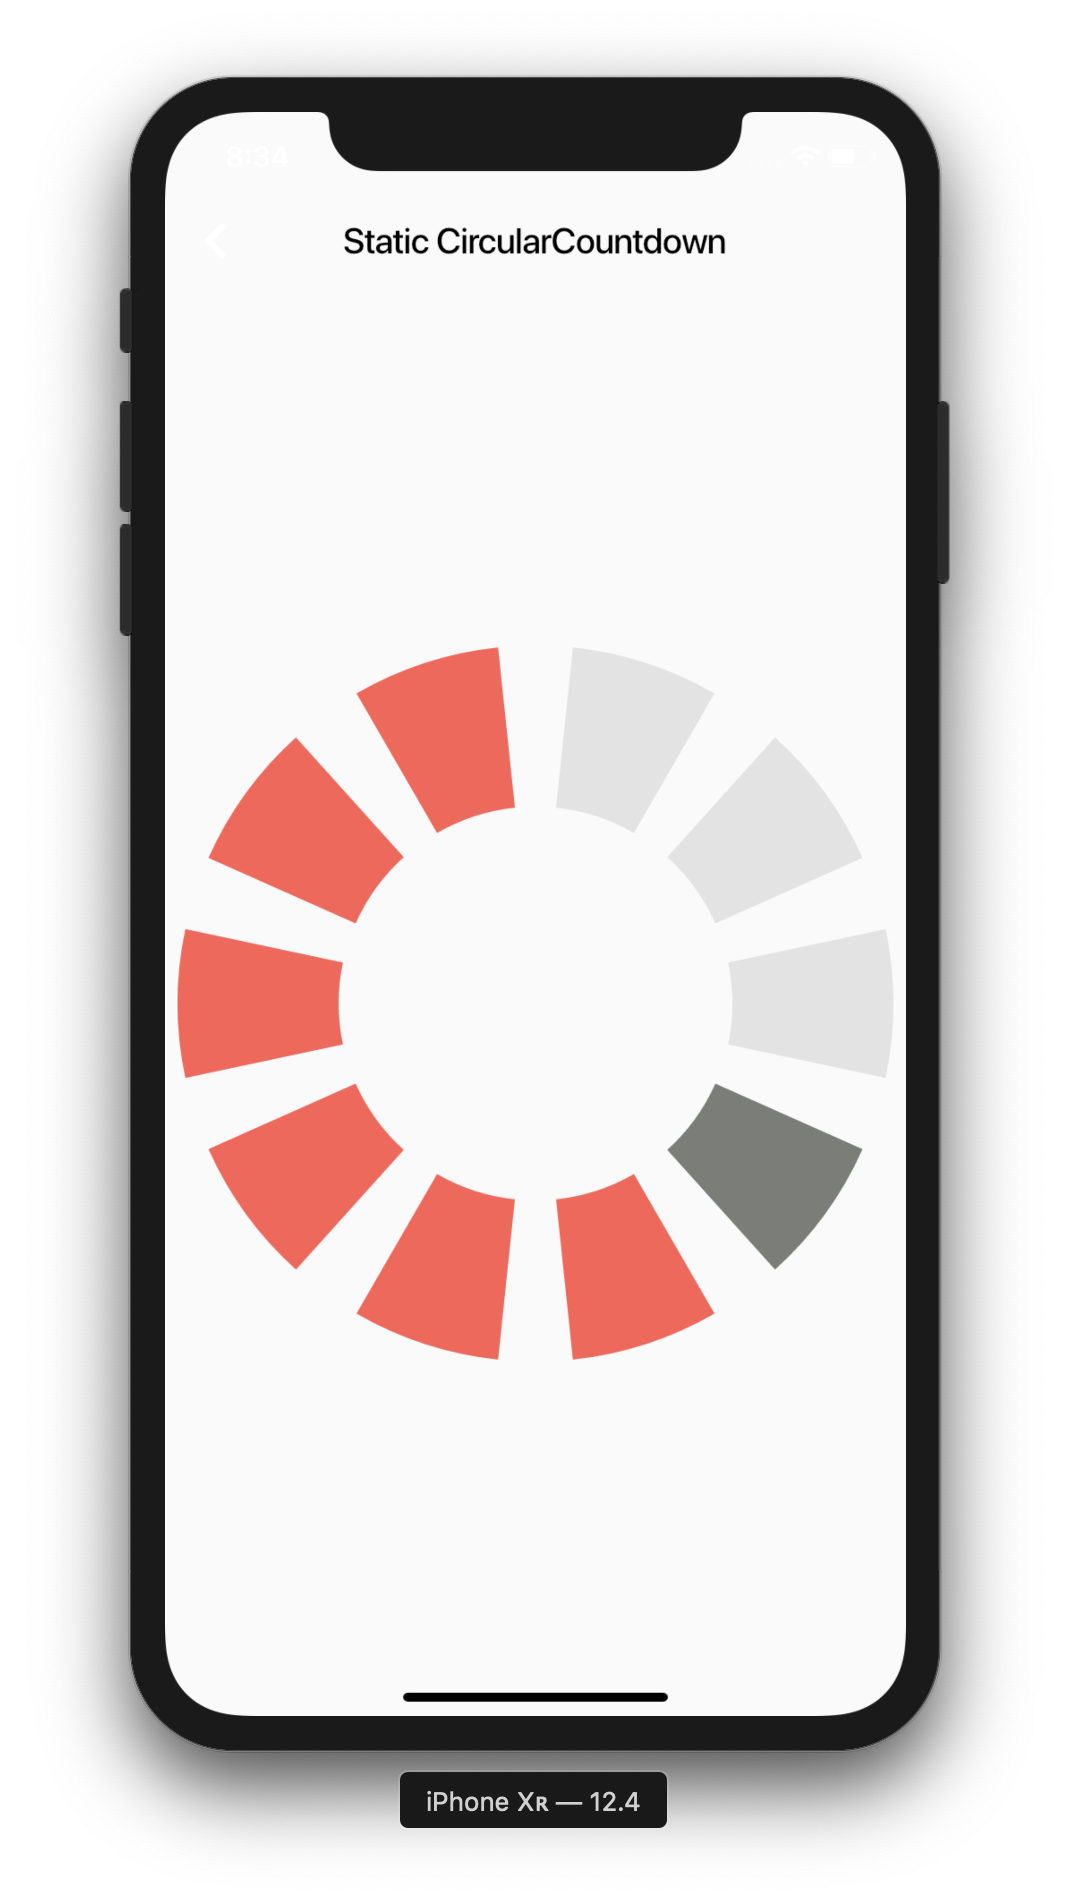
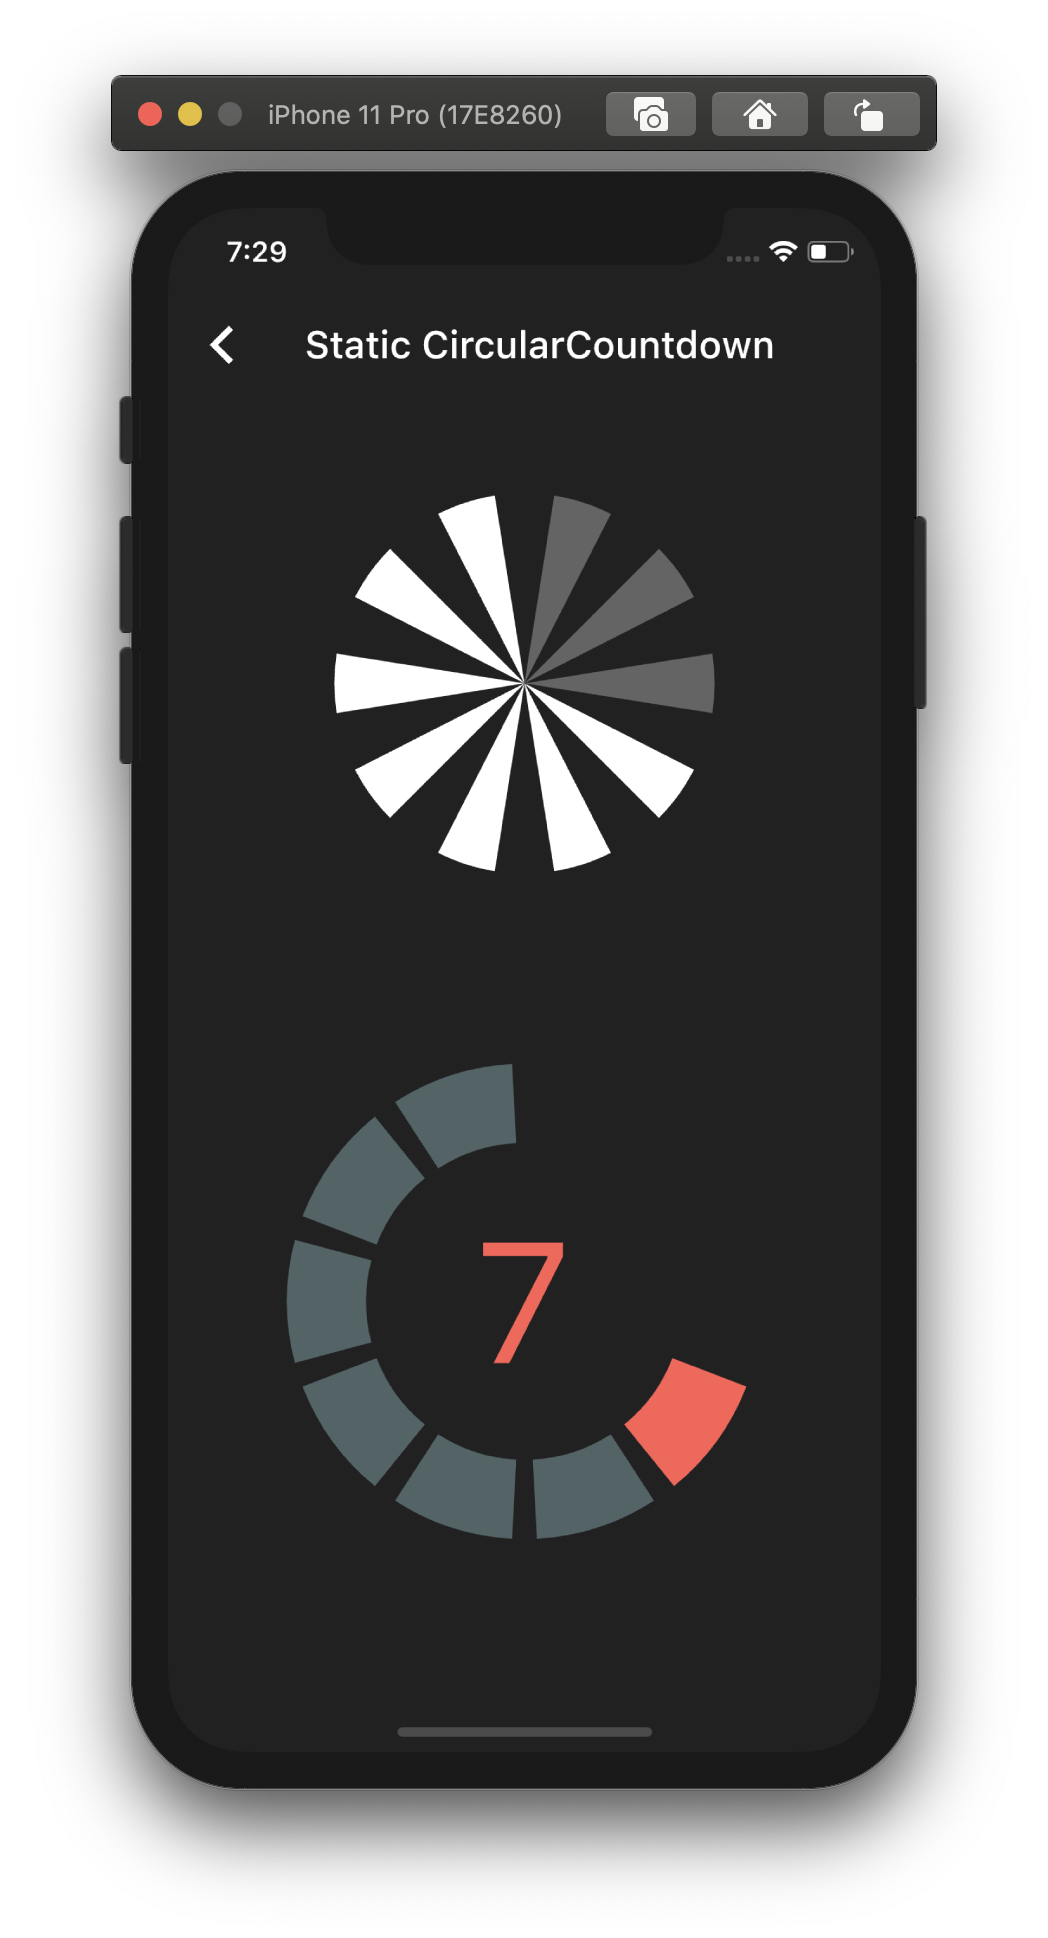
Updated docs

diff --git a/example/lib/countdowns/static_countdown.dart b/example/lib/countdowns/static_countdown.dart
@@ -1,5 +1,6 @@
 import 'package:flutter/material.dart';
 import 'package:circular_countdown/circular_countdown.dart';
+import 'package:gap/gap.dart';
 
 class StaticCountdownPage extends StatelessWidget {
   @override
@@ -11,23 +12,47 @@ class StaticCountdownPage extends StatelessWidget {
         elevation: 0,
       ),
       backgroundColor: Colors.grey[900],
-  
-      body: Center(
-        child: Column(
-          mainAxisAlignment: MainAxisAlignment.spaceEvenly,
-          children: const <Widget>[
-            CircularCountdown(
-              diameter: 250,
-              countdownTotal: 10,
-              countdownRemaining: 7,
-              strokeWidth: 50,
-              textStyle: TextStyle(
-                color: Colors.white,
-                fontSize: 90,
-              ),
+      body: ListView(
+        children: const <Widget>[
+          Gap(50),
+          CircularCountdown(
+            diameter: 200,
+            gapFactor: 2,
+            strokeWidth: 100,
+            countdownTotal: 10,
+            countdownRemaining: 7,
+          ),
+          Gap(50),
+          CircularCountdown(
+            diameter: 250,
+            countdownTotal: 10,
+            countdownRemaining: 2,
+            strokeWidth: 5,
+            textStyle: TextStyle(
+              color: Colors.white,
+              fontSize: 90,
             ),
-          ],
-        ),
+          ),
+          Gap(50),
+          CircularCountdown(
+            diameter: 250,
+            countdownTotal: 10,
+            countdownRemaining: 7,
+            countdownCurrentColor: Color(0xFFFE5F55),
+            countdownRemainingColor: Color(0xFF4F6367),
+            countdownTotalColor: Colors.transparent,
+            textStyle: TextStyle(
+              color: Color(0xFFFE5F55),
+              fontSize: 90,
+            ),
+          ),
+          Gap(50),
+          CircularCountdown(
+            diameter: 250,
+            countdownTotal: 10,
+          ),
+          Gap(50),
+        ],
       ),
     );
   }

diff --git a/README.md b/README.md
@@ -4,14 +4,12 @@ A package that represents a circular countdown that you can use for every kind o
 
 ## Getting Started
 
-The latest version is [![Pub](https://img.shields.io/pub/v/circular_countdown.svg)](https://pub.dev/packages/circular_countdown).
-
 In the `pubspec.yaml` of your flutter project, add the following dependency:
 
 ```yaml
 dependencies:
   ...
-  circular_countdown: ^latest_version
+  circular_countdown: ^1.0.1
 ```
 
 In your library add the following import:
@@ -19,8 +17,6 @@ In your library add the following import:
 ```dart
 import  'package:circular_countdown/circular_countdown.dart';
 ```
-
-For help getting started with Flutter, view the online [documentation](https://flutter.io/).
 
 ## Example
 
@@ -38,12 +34,28 @@ CircularCountdown(
 
 <img width="250"  src="https://raw.githubusercontent.com/MattisBrizard/circular_countdown/master/doc/images/static.png">
 
-By playing with the parameters, you can change the size, the colors, the size of the gaps and the strokeWidth.
+By playing with the parameters, you can change the size, the colors, the size of the gaps, the strokeWidth and more to have more complex Countdowns.
 
 <img width="250"  src="https://raw.githubusercontent.com/MattisBrizard/circular_countdown/master/doc/images/complex.png">
+
+If you want to use the `CircularCountdown` widget as a Time Countdown, you can use the built-in `TimeCircularCountdown` that wraps the timer logic for you: (see how in example)
+
+```dart
+TimeCircularCountdown(
+    unit: CountdownUnit.seconds,
+    countdownTotal: 30,
+    onUpdated: (unit, remainingTime) => print('Updated'),
+    onFinished: () => print('Countdown finished'),
+);
+```
 
 ## Demo
 
 A web demo is available here : https://mattisbrizard.github.io/circular_countdown/#/
 
 [![Build Status](https://img.shields.io/github/workflow/status/MattisBrizard/circular_countdown/Deploy%20Flutter%20web)](https://github.com/MattisBrizard/circular_countdown/actions?query=workflow%3A%22Deploy+Flutter+web%22)
+
+## Contribution
+
+If you find a bug or want a feature, but don't know how to fix/implement it, please fill an [issue](https://github.com/MattisBrizard/circular_countdown/issues).
+If you fixed a bug or implemented a feature, please send a pull [request](https://github.com/MattisBrizard/circular_countdown/pulls).

diff --git a/CHANGELOG.md b/CHANGELOG.md
@@ -1,3 +1,9 @@
+# [1.0.1] - 14/05/2020
+
+## Changes :
+
+- Updated Documentation.
+
 # [1.0.0] - 10/05/2020
 
 ## Added :
